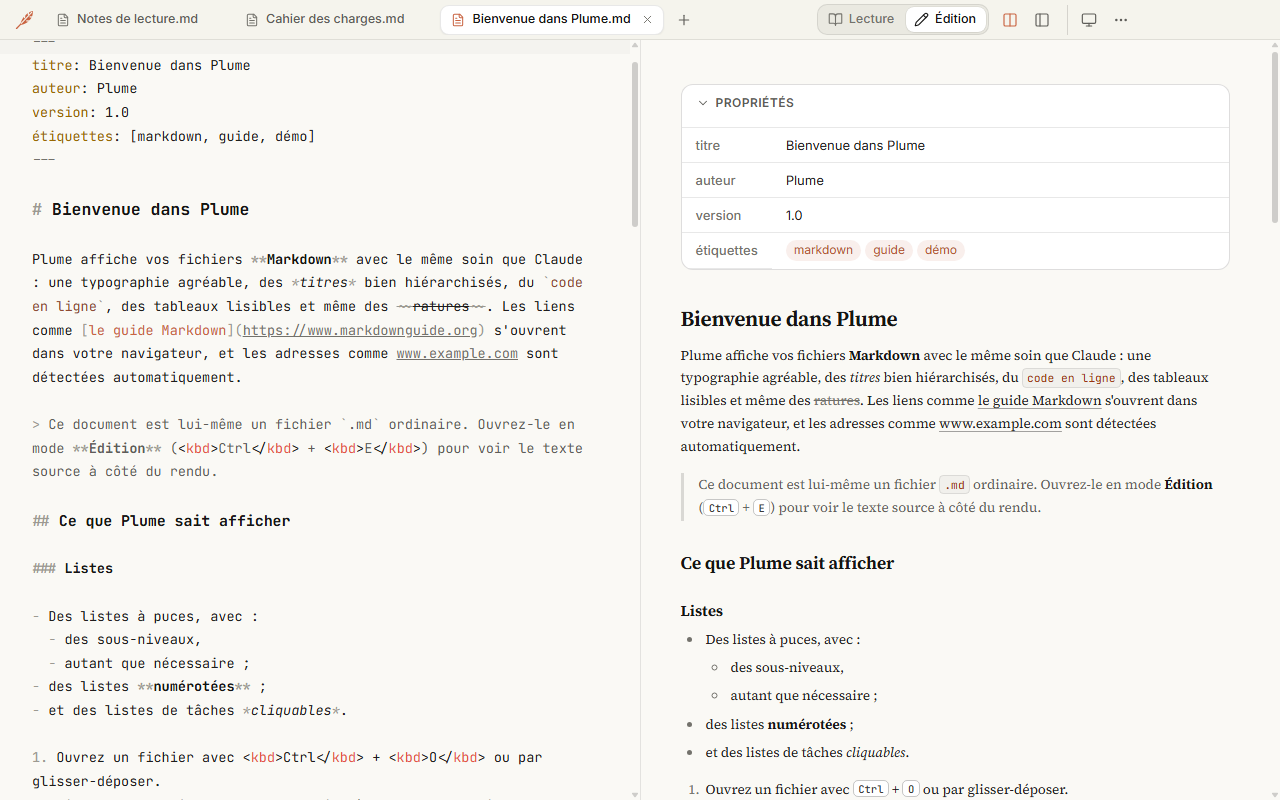
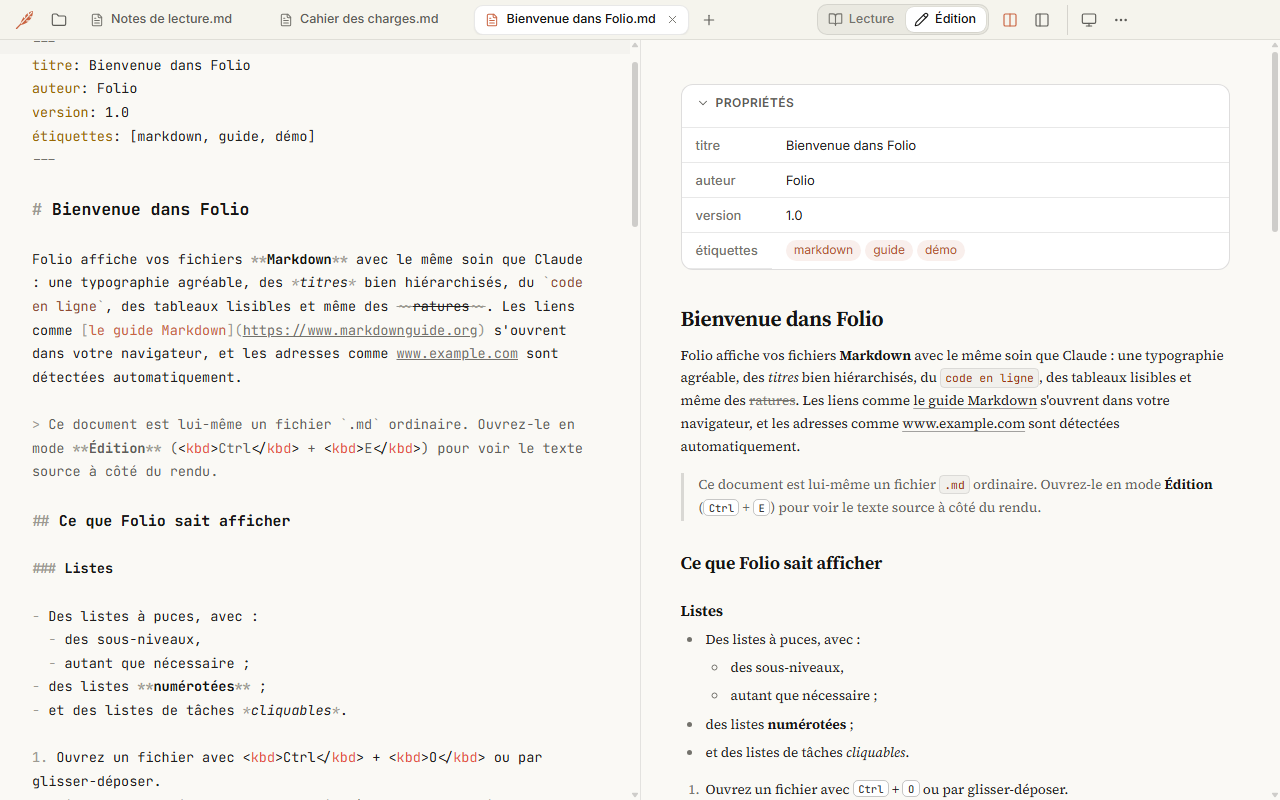
Plume devient Folio (version 1.2)

diff --git a/README.md b/README.md
@@ -1,26 +1,30 @@
 <p align="center">
-  <img src="plume.svg" width="88" alt="Icône de Plume">
+  <img src="folio.svg" width="88" alt="Icône de Folio">
 </p>
 
-<h1 align="center">Plume</h1>
+<h1 align="center">Folio</h1>
 
 <p align="center">
   Un lecteur et éditeur de fichiers Markdown (<code>.md</code>) pour Windows, pensé pour la lecture.
 </p>
 
 <p align="center">
-  <a href="https://github.com/myrvmsr/plume/releases/latest/download/Plume-Setup.exe"><b>Télécharger Plume pour Windows</b></a><br>
+  <a href="https://github.com/myrvmsr/folio/releases/latest/download/Folio-Setup.exe"><b>Télécharger Folio pour Windows</b></a><br>
   <sub>Windows 10 et 11, 64 bits · environ 100 Mo · gratuit</sub><br>
   <sub>Français · English · Español · Deutsch · Nederlands · Italiano · Português</sub>
 </p>
 
 <p align="center">
-  <img src="captures/lecture.png" alt="Plume affichant un document Markdown" width="860">
+  <img src="captures/lecture.png" alt="Folio affichant un document Markdown" width="860">
 </p>
+
+## Nouveau dans la version 1.2
+
+- **Plume devient Folio.** Installez simplement Folio : l'ancienne version de Plume est retirée automatiquement, et vos réglages, espaces et dossiers sont conservés.
 
 ## Nouveau dans la version 1.1
 
-- **Panneau Dossiers** : ajoutez vos dossiers de notes et retrouvez vos documents en arbre. Vous pouvez créer, renommer, ranger par glisser-déposer et mettre à la corbeille sans quitter Plume.
+- **Panneau Dossiers** : ajoutez vos dossiers de notes et retrouvez vos documents en arbre. Vous pouvez créer, renommer, ranger par glisser-déposer et mettre à la corbeille sans quitter Folio.
 - **Enregistrement automatique**, activé par défaut : vos modifications sont enregistrées une seconde après la dernière frappe, comme dans VS Code.
 - **Sept langues** : français, anglais, espagnol, allemand, néerlandais, italien et portugais.
 - **Bouton Copier** sur tous les blocs de code, aussi en mode Édition.
@@ -44,8 +48,8 @@ Déjà installé ? Voir [Mettre à jour](#mettre-à-jour).
 - **Sommaire** cliquable qui suit votre lecture, à gauche ou à droite.
 - **Recherche** dans le document, sans tenir compte des accents : « ete » trouve « été ».
 - **Taille du texte** (aussi avec <kbd>Ctrl</kbd> + molette), **largeur de lecture** et plein écran.
-- **Rechargement automatique** : quand un autre programme (un assistant IA comme Claude, un éditeur…) modifie le fichier, l'affichage suit tout seul. Si vous avez des modifications non enregistrées, Plume vous demande quoi faire au lieu de les écraser.
-- **Liens** : les liens web s'ouvrent dans le navigateur, un lien vers un autre `.md` l'ouvre dans Plume, et les ancres mènent à la bonne section.
+- **Rechargement automatique** : quand un autre programme (un assistant IA comme Claude, un éditeur…) modifie le fichier, l'affichage suit tout seul. Si vous avez des modifications non enregistrées, Folio vous demande quoi faire au lieu de les écraser.
+- **Liens** : les liens web s'ouvrent dans le navigateur, un lien vers un autre `.md` l'ouvre dans Folio, et les ancres mènent à la bonne section.
 - **Export PDF** et **impression**, toujours sur fond blanc.
 
 ### Écrire et modifier
@@ -53,7 +57,7 @@ Déjà installé ? Voir [Mettre à jour](#mettre-à-jour).
 - **Mode Édition** (<kbd>Ctrl</kbd>+<kbd>E</kbd>) : le texte source, coloré, à côté de l'aperçu mis à jour en direct, avec un défilement synchronisé. L'aperçu peut se masquer pour ne garder que le texte. Les blocs de code y ont aussi leur bouton **Copier**.
 - **Enregistrement automatique** : par défaut, une seconde après la dernière frappe. On peut aussi choisir toutes les *N* minutes, au changement d'onglet ou de fenêtre, ou le désactiver.
 - **Mise en forme au clavier** : gras, italique, barré, code, lien, ainsi que rechercher et remplacer.
-- **Correcteur orthographique** (facultatif) et point orange sur l'onglet tant que le document n'est pas enregistré. Si l'enregistrement automatique est désactivé, Plume demande confirmation avant de fermer un document modifié.
+- **Correcteur orthographique** (facultatif) et point orange sur l'onglet tant que le document n'est pas enregistré. Si l'enregistrement automatique est désactivé, Folio demande confirmation avant de fermer un document modifié.
 
 <p align="center">
   <img src="captures/edition.png" alt="Mode Édition : le texte source à gauche, l'aperçu à droite" width="860">
@@ -91,13 +95,13 @@ Déjà installé ? Voir [Mettre à jour](#mettre-à-jour).
 - Passez d'un espace à l'autre d'un clic sur sa pastille ou au clavier.
 - Rangez un onglet dans un autre espace d'un clic droit, ou en le glissant sur la pastille de l'espace.
 - Renommez, recolorez ou supprimez un espace à tout moment.
-- À la réouverture, Plume retrouve vos espaces et leurs onglets comme vous les avez laissés (désactivable).
+- À la réouverture, Folio retrouve vos espaces et leurs onglets comme vous les avez laissés (désactivable).
 
 ### Le thème à votre goût
 
 - **Mode clair, sombre ou automatique** (il suit alors Windows).
 - **Couleur d'accentuation** : huit couleurs proposées, ou n'importe quelle autre.
-- **Couleur de fond et couleur du texte**, réglées séparément pour le mode clair et le mode sombre. Toute l'interface s'accorde à vos couleurs, et Plume prévient si le texte devient difficile à lire.
+- **Couleur de fond et couleur du texte**, réglées séparément pour le mode clair et le mode sombre. Toute l'interface s'accorde à vos couleurs, et Folio prévient si le texte devient difficile à lire.
 - **Quatre polices** (Sérif, Sans, Système, Mono), taille du texte et largeur de lecture.
 
 <p align="center">
@@ -106,13 +110,13 @@ Déjà installé ? Voir [Mettre à jour](#mettre-à-jour).
 
 ### En sept langues
 
-- Plume parle **français, anglais, espagnol, allemand, néerlandais, italien et portugais**. Par défaut, il suit la langue de Windows.
+- Folio parle **français, anglais, espagnol, allemand, néerlandais, italien et portugais**. Par défaut, il suit la langue de Windows.
 - Changement immédiat dans **Paramètres › Langue** : menus, boutons, messages, noms des touches et correcteur orthographique.
 
 ### Des raccourcis clavier personnalisables
 
 - Chaque action a un raccourci modifiable : cliquez dessus, tapez la nouvelle combinaison, c'est enregistré. Une action peut avoir plusieurs raccourcis.
-- Une combinaison ne peut servir qu'à une seule action : si elle est déjà prise, Plume le signale et propose de la réattribuer. Les raccourcis de Windows (copier, coller, annuler…) restent protégés.
+- Une combinaison ne peut servir qu'à une seule action : si elle est déjà prise, Folio le signale et propose de la réattribuer. Les raccourcis de Windows (copier, coller, annuler…) restent protégés.
 - Les claviers AZERTY sont pris en charge.
 
 ### Bien intégré à Windows
@@ -124,30 +128,30 @@ Déjà installé ? Voir [Mettre à jour](#mettre-à-jour).
 
 ## Installation
 
-1. Téléchargez **Plume-Setup.exe** avec le lien en haut de la page. Si le navigateur demande confirmation, choisissez **Conserver**.
-2. Lancez le fichier. Si Windows affiche « Windows a protégé votre ordinateur », cliquez sur **Informations complémentaires**, puis **Exécuter quand même** : cet avertissement apparaît parce que Plume n'est pas signé numériquement.
-3. Plume s'installe en quelques secondes, sans droits administrateur, puis s'ouvre.
+1. Téléchargez **Folio-Setup.exe** avec le lien en haut de la page. Si le navigateur demande confirmation, choisissez **Conserver**.
+2. Lancez le fichier. Si Windows affiche « Windows a protégé votre ordinateur », cliquez sur **Informations complémentaires**, puis **Exécuter quand même** : cet avertissement apparaît parce que Folio n'est pas signé numériquement.
+3. Folio s'installe en quelques secondes, sans droits administrateur, puis s'ouvre.
 
 > [!NOTE]
-> Si le **Contrôle intelligent des applications** de Windows 11 est activé sur votre PC, Windows bloque Plume sans proposer de passer outre. Plume ne peut pas être utilisé sur ces PC pour le moment.
+> Si le **Contrôle intelligent des applications** de Windows 11 est activé sur votre PC, Windows bloque Folio sans proposer de passer outre. Folio ne peut pas être utilisé sur ces PC pour le moment.
 
 ### Ouvrir les fichiers `.md` d'un double-clic
 
-Clic droit sur un fichier `.md` › **Ouvrir avec** › **Choisir une autre application** › **Plume** › **Toujours**.
+Clic droit sur un fichier `.md` › **Ouvrir avec** › **Choisir une autre application** › **Folio** › **Toujours**.
 
 ### Mettre à jour
 
-Plume ne se met pas à jour tout seul. Pour passer à la dernière version :
+Folio ne se met pas à jour tout seul. Pour passer à la dernière version :
 
-1. **Fermez Plume.**
-2. Téléchargez **Plume-Setup.exe** avec le lien en haut de la page : il donne toujours la dernière version.
+1. **Fermez Folio.**
+2. Téléchargez **Folio-Setup.exe** avec le lien en haut de la page : il donne toujours la dernière version.
 3. Lancez-le. Si Windows affiche à nouveau « Windows a protégé votre ordinateur », cliquez sur **Informations complémentaires**, puis **Exécuter quand même**.
 
-Inutile de désinstaller l'ancienne version : la nouvelle la remplace et garde vos réglages, vos espaces et vos dossiers. Votre version s'affiche dans le menu **⋯** › **À propos de Plume**.
+Inutile de désinstaller l'ancienne version : la nouvelle la remplace et garde vos réglages, vos espaces et vos dossiers. Votre version s'affiche dans le menu **⋯** › **À propos de Folio**.
 
 ### Désinstaller
 
-**Paramètres** de Windows › **Applications** › **Applications installées** › **Plume** › **Désinstaller**.
+**Paramètres** de Windows › **Applications** › **Applications installées** › **Folio** › **Désinstaller**.
 
 ## Raccourcis par défaut
 
@@ -172,4 +176,4 @@ Inutile de désinstaller l'ancienne version : la nouvelle la remplace et garde v
 
 ---
 
-<sub>Plume intègre des logiciels libres (Electron, markdown-it, KaTeX, Mermaid, CodeMirror, highlight.js…) et les polices Source Serif 4, Inter et JetBrains Mono. Leurs licences sont reproduites dans <code>THIRD-PARTY-NOTICES.txt</code>, dans le dossier d'installation de Plume.</sub>
+<sub>Folio intègre des logiciels libres (Electron, markdown-it, KaTeX, Mermaid, CodeMirror, highlight.js…) et les polices Source Serif 4, Inter et JetBrains Mono. Leurs licences sont reproduites dans <code>THIRD-PARTY-NOTICES.txt</code>, dans le dossier d'installation de Folio.</sub>
